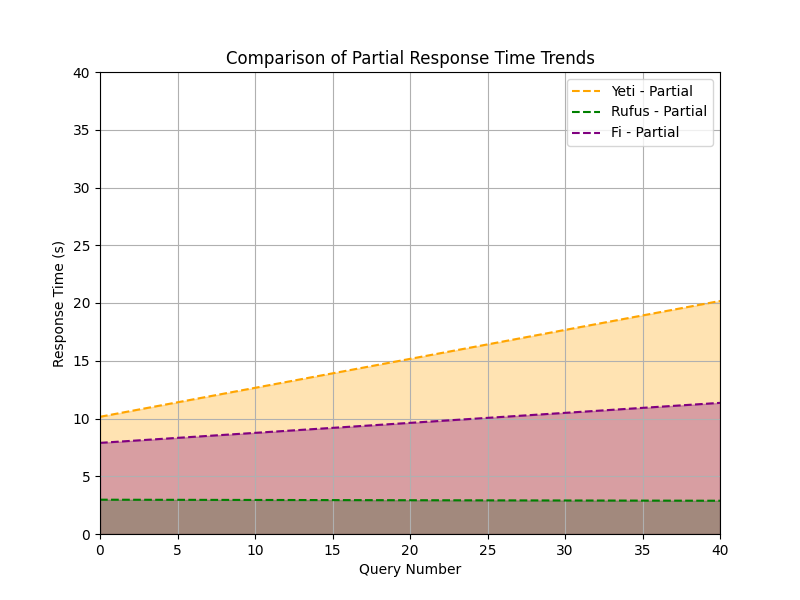
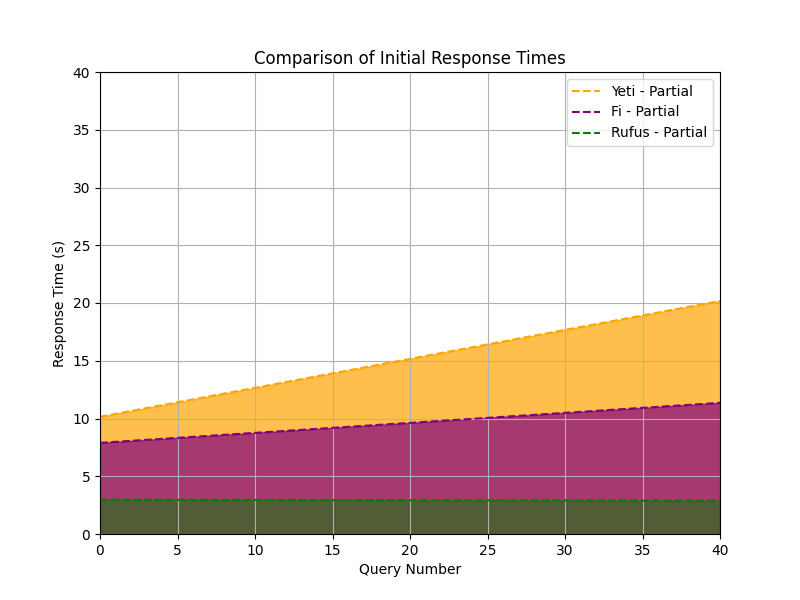
Fixed the compare graph

Changed region(s): [[0.125, 0.51, 0.9062, 0.9], [0.2812, 0.09, 0.75, 0.12], [0.75, 0.18, 0.875, 0.24]]

diff --git a/timing_plot.py b/timing_plot.py
@@ -17,6 +17,9 @@ name_mapping = {"yeti": "Yeti", "rufus": "Rufus", "fi": "Fi"}
 # Create a persistent figure for the combined best-fit plot (BUT DON'T SHOW IT YET)
 fig_combined, ax_combined = plt.subplots(figsize=(8, 6))
 
+# Store the data for each chatbot to avoid overlapping in the combined plot
+chatbot_data = {}
+
 # Iterate over each chatbot
 for label, color in colors.items():
     subset = df[df["chat_bot"] == label].dropna(subset=["query_num", "partial_response_time", "total_response_time"])
@@ -63,14 +66,24 @@ for label, color in colors.items():
     ax_individual.legend()
     ax_individual.grid(True)
 
-    # --- Add best-fit lines with filled area to the combined plot ---
-    ax_combined.plot(x_range, y_partial, color=color, linestyle="--", label=f"{name_mapping[label]} - Partial")
-    ax_combined.fill_between(x_range, y_partial, alpha=0.3, color=color)
+    # Store data for the combined plot
+    chatbot_data[label] = (x_range, y_partial, color)
+
+# Plot the areas for all chatbots except Rufus (to avoid covering Rufus)
+for label, (x_range, y_partial, color) in chatbot_data.items():
+    if label != "rufus":  # Plot others first
+        ax_combined.plot(x_range, y_partial, color=color, linestyle="--", label=f"{name_mapping[label]} - Partial")
+        ax_combined.fill_between(x_range, y_partial, alpha=0.7, color=color)
+
+# Plot Rufus last to bring it to the front with full opacity
+x_range, y_partial, color = chatbot_data["rufus"]
+ax_combined.plot(x_range, y_partial, color=color, linestyle="--", label="Rufus - Partial")
+ax_combined.fill_between(x_range, y_partial, alpha=0.5, color=color)
 
 # --- Only now show the combined best-fit plot ---
 ax_combined.set_xlabel("Query Number")
 ax_combined.set_ylabel("Response Time (s)")
-ax_combined.set_title("Comparison of Partial Response Time Trends")
+ax_combined.set_title("Comparison of Initial Response Times")
 ax_combined.set_xlim(0, 40)
 ax_combined.set_ylim(0, 40)
 ax_combined.legend()
